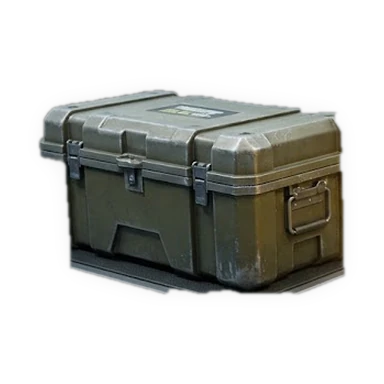
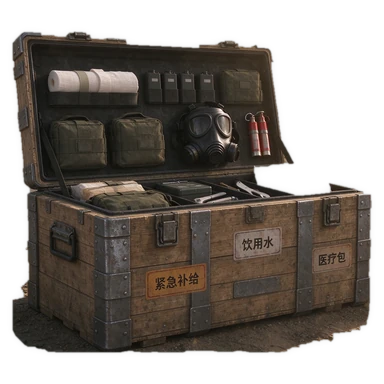
裝備名稱旁標示稀有度，更換裝備箱插圖
- 裝備名稱前加稀有度標籤（N／R／SR／SSR／UR／EX），顏色依稀有度：倉庫、圖鑑、角色裝備欄、裝備調整區、商店、詳情與強化／分解視窗
- 掉落訊息在名稱後標示稀有度
- 裝備補給箱、黃金裝備箱換成新插圖（已裁掉浮水印）

diff --git a/index.html b/index.html
@@ -236,6 +236,7 @@ b.sA{color:var(--sideA)} b.sB{color:var(--sideB)}
 .ucard.bossu{width:170px;border-color:#7a2a3a}
 .ucard.bossu.p2{border-color:var(--red);box-shadow:0 0 22px rgba(229,72,77,.7);animation:rage 1.2s infinite}
 @keyframes rage{50%{box-shadow:0 0 34px rgba(229,72,77,.95)}}
+.qtag{display:inline-block;font-size:10px;font-weight:800;line-height:15px;padding:0 5px;margin-right:4px;border-radius:5px;border:1px solid currentColor;vertical-align:middle;letter-spacing:.3px;background:rgba(0,0,0,.35)}
 .rN{color:#a3acb6}.rUR{color:#ff6b95;text-shadow:0 0 8px rgba(255,94,138,.6)}
 .gfx{font-size:11px;color:#7fe3ff}
 .req{font-size:11px;color:var(--dim)}.req.bad{color:var(--red);font-weight:700}
@@ -806,6 +807,8 @@ function gearStats(g){
 }
 function statStr(o){return Object.keys(ST_LBL).filter(k=>o[k]).map(k=>ST_PCT[k]?`${ST_LBL[k]}+${o[k]}%`:`${ST_LBL[k]}+${o[k]}`).join(" ");}
 function fxStr(g){return (g.fx||[]).map(f=>`✦${AFFIX[f.k].n}+${f.v}${AFFIX[f.k].pct?"%":""}`).join(" ");}
+// 稀有度標籤：N／R／SR／SSR／UR／EX，放在裝備名稱旁邊
+function qTag(q){return `<span class="qtag r${q}">${q}</span>`;}
 function gearName(g){return `${GEAR[g.base].icon}${GEAR[g.base].name}${g.lv?" +"+g.lv:""}`;}
 function gearCls(base){const c=GEAR[base].cls;return c?c.map(k=>CLASSES[k].icon+CLASSES[k].name).join("／"):"全職業";}
 
@@ -1316,7 +1319,7 @@ function showCard(id){
     <div>${clsTag(id)} <span class="dim small">${CLASSES[c.cls].desc}</span></div>${o?lvBar(id):""}
     <div class="small">❤ ${sv("hp",s.maxHp)}　⚔ ${sv("atk",s.atk)}　🛡 ${sv("def",s.def)}　💨 ${sv("spd",s.spd)}</div>
     ${o?`<div class="gslots">${Object.keys(SLOTS).map(sl=>{const g=gearById(o.eq&&o.eq[sl]);
-      return `<div class="gslot ${g?"has "+GEAR[g.base].q:""}" onclick="openSlot('${id}','${sl}')"><div class="gi">${g?gearImg(g.base):"＋"}</div>${g?`<b class="r${GEAR[g.base].q}">${GEAR[g.base].name}${g.lv?" +"+g.lv:""}</b>${lvOk(id,g.base)?"":`<div class="req bad">⚠ 需 Lv.${GEAR_REQ[GEAR[g.base].q]}，未生效</div>`}`:`<span class="dim">${SLOTS[sl]}</span>`}</div>`;}).join("")}</div>
+      return `<div class="gslot ${g?"has "+GEAR[g.base].q:""}" onclick="openSlot('${id}','${sl}')"><div class="gi">${g?gearImg(g.base):"＋"}</div>${g?`<b class="r${GEAR[g.base].q}">${qTag(GEAR[g.base].q)}${GEAR[g.base].name}${g.lv?" +"+g.lv:""}</b>${lvOk(id,g.base)?"":`<div class="req bad">⚠ 需 Lv.${GEAR_REQ[GEAR[g.base].q]}，未生效</div>`}`:`<span class="dim">${SLOTS[sl]}</span>`}</div>`;}).join("")}</div>
     ${setHtml(id)}${e.crit||e.steal||e.dodge?`<div class="gfx">裝備特效：${statStr({crit:e.crit,steal:e.steal,dodge:e.dodge})}</div>`:""}`:""}
     </div></div>
     ${skillHtml(c)}
@@ -1546,7 +1549,7 @@ function addGear(base,lv=0){
   const g={uid:++SAVE.gearUid,base,lv,roll:ri(lo,hi),fx};SAVE.gear.push(g);return g;
 }
 function rollGear(q){return pick(Object.keys(GEAR).filter(k=>GEAR[k].q===q));}
-function dropGear(q){return gearName(addGear(rollGear(q)));}
+function dropGear(q){return gearName(addGear(rollGear(q)))+`（${q}）`;}
 // 身上生效的裝備（等級不足的不算）
 // eq 是「欄位→裝備 uid」的對照；預覽時可以傳入假設的組合
 function wornOf(id,eq){return Object.values(eq||{}).map(gearById).filter(g=>g&&lvOk(id,g.base));}
@@ -1579,7 +1582,7 @@ function openSlot(id,sl){
   const list=SAVE.gear.filter(g=>GEAR[g.base].slot===sl&&g.uid!==cur).sort(gearSort);
   const ok=list.filter(g=>canWear(id,g.base)&&lvOk(id,g.base)),no=list.filter(g=>!canWear(id,g.base)),low=list.filter(g=>canWear(id,g.base)&&!lvOk(id,g.base));
   openModal(`<h3>${CARDS[id].name} 的${SLOTS[sl]} ${clsTag(id)}</h3>
-    ${cur?`<div class="row" style="margin-bottom:8px"><span>目前：<b>${gearName(gearById(cur))}</b> ${statStr(gearStats(gearById(cur)))}</span><button class="mini" style="margin-left:auto" onclick="takeOff('${id}','${sl}')">卸下</button></div>`:""}
+    ${cur?`<div class="row" style="margin-bottom:8px"><span>目前：<b>${qTag(GEAR[gearById(cur).base].q)}${gearName(gearById(cur))}</b> ${statStr(gearStats(gearById(cur)))}</span><button class="mini" style="margin-left:auto" onclick="takeOff('${id}','${sl}')">卸下</button></div>`:""}
     <div class="ggrid">${ok.map(g=>gearCard(g,`equipTo('${id}',${g.uid});showCard('${id}');render()`)).join("")||`<span class="dim">沒有可以穿的${SLOTS[sl]}。去「商店」買，或在遠征、競技場打倒敵人掉落。</span>`}</div>
     ${low.length?`<p class="small" style="color:var(--red)">等級不足（目前 Lv.${lvOf(id)}）：${low.map(g=>`${GEAR[g.base].name}（需 Lv.${GEAR_REQ[GEAR[g.base].q]}）`).join("、")}</p>`:""}
     ${no.length?`<p class="dim small">職業不符（${no.map(g=>GEAR[g.base].name).join("、")}）</p>`:""}
@@ -1590,7 +1593,7 @@ function gearSort(a,b){return GQ.indexOf(GEAR[b.base].q)-GQ.indexOf(GEAR[a.base]
 function gearCard(g,onclick){
   const G=GEAR[g.base],w=gearOwner(g.uid);
   return `<div class="gcard ${G.q}" onclick="${onclick}">${g.lv?`<span class="lv ${g.lv>=ENH_MAX?"max":g.lv>=7?"hi":""}">+${g.lv}</span>`:""}<div class="gi">${gearImg(g.base)}</div>
-    <div class="gn r${G.q}">${G.name}</div><div class="small">${statStr(gearStats(g))}</div>${g.fx&&g.fx.length?`<div class="gfx">${fxStr(g)}</div>`:""}
+    <div class="gn r${G.q}">${qTag(G.q)}${G.name}</div><div class="small">${statStr(gearStats(g))}</div>${g.fx&&g.fx.length?`<div class="gfx">${fxStr(g)}</div>`:""}
     <div class="small dim">${GQ_NAME[G.q]}・${SLOTS[G.slot]}・${gearCls(g.base)} ${reqTag(null,g.base)}</div>${w?`<div class="who">👤 ${CARDS[w].name}</div>`:""}</div>`;
 }
 
@@ -1634,7 +1637,7 @@ function viewDex(){
   <div class="filters"><button class="${DEX_Q?"":"on"}" onclick="DEX_Q='';render()">全部（${keys.length}）</button>${GQ.map(q=>`<button class="${DEX_Q===q?"on":""}" onclick="DEX_Q='${q}';render()">${q}（${keys.filter(k=>GEAR[k].q===q).length}）</button>`).join("")}</div>
   <div class="ggrid">${show.map(k=>{const G=GEAR[k],o=dexOwned(k);
     return `<div class="gcard ${G.q} ${o.n?"":"dexlock"}" onclick="openDex('${k}')">${o.n?`<span class="lv" style="color:var(--green)">×${o.n}</span>`:""}
-      <div class="gi">${gearImg(k)}</div><div class="gn r${G.q}">${G.name}</div><div class="small">${statStr(G.st)}</div>
+      <div class="gi">${gearImg(k)}</div><div class="gn r${G.q}">${qTag(G.q)}${G.name}</div><div class="small">${statStr(G.st)}</div>
       <div class="small dim">${GQ_NAME[G.q]}・${SLOTS[G.slot]}・${gearCls(k)} ${reqTag(null,k)}</div>${o.n?"":`<div class="small dim">未擁有</div>`}</div>`;}).join("")}</div>
   <h3 style="margin-top:18px">🧩 套裝效果</h3>
   <p class="dim small" style="margin-top:0">同稀有度的武器、防具、飾品穿 2 件、3 件有額外效果（3 件會同時拿到 2 件的效果）。</p>
@@ -1648,7 +1651,7 @@ function openDex(k){
   const aff=Object.entries(AFFIX).map(([a,A])=>`${A.n} +${Math.max(1,Math.round(A.r[0]*m))}～${Math.max(1,Math.round(A.r[1]*m))}${A.pct?"%":""}`).join("、");
   const boss=Object.keys(BOSS_DROP).find(b=>BOSS_DROP[b]===k);
   openModal(`<div class="detail"><div class="bigicon fx-${G.q}">${gearImg(k)}</div><div style="flex:1">
-    <div class="r${G.q}">${G.q}（${GQ_NAME[G.q]}）・${SLOTS[G.slot]}</div><h2 style="margin:2px 0">${G.name}</h2>
+    <div class="r${G.q}">${G.q}（${GQ_NAME[G.q]}）・${SLOTS[G.slot]}</div><h2 style="margin:2px 0">${qTag(G.q)}${G.name}</h2>
     <div class="small">${o.n?`倉庫裡有 <b>${o.n}</b> 件，最高 +${o.best}`:`<span class="dim">倉庫裡還沒有</span>`}</div>
     <div class="small dim">可裝備：${gearCls(k)}・穿戴等級 Lv.${GEAR_REQ[G.q]}</div></div></div>
     <div class="sk"><b>📊 數值</b><br>基礎：${statStr(G.st)}<br>品質浮動（${lo}%～${hi}%）：${rng}<br>強化到 +${ENH_MAX}：${max}（以 100% 品質計）</div>
@@ -1689,13 +1692,13 @@ function viewFit(){
         <div>${clsTag(id)} <span class="small dim">Lv.${lvOf(id)}</span></div></div></div>
     <div style="margin-top:10px"><b class="small">${nw?"裝上之後的素質":"目前素質"}</b>${nw?` <span class="small dim">（含套裝加成）</span>`:""}</div>
     ${fitStatHtml(cur,nw)}
-    ${nw?`<div class="fitpv"><b>預覽：${gearName(pick)}</b> <span class="small">${statStr(gearStats(pick))}${pick.fx&&pick.fx.length?" "+fxStr(pick):""}</span>
+    ${nw?`<div class="fitpv"><b>預覽：${qTag(GEAR[pick.base].q)}${gearName(pick)}</b> <span class="small">${statStr(gearStats(pick))}${pick.fx&&pick.fx.length?" "+fxStr(pick):""}</span>
       ${pickWho&&pickWho!==id?`<div class="small" style="color:var(--gold)">👤 目前 ${CARDS[pickWho].name} 穿著，穿上會從他身上拿走</div>`:""}
       <div class="row" style="margin-top:8px"><button class="pri" onclick="fitEquip()">✅ 穿上</button><button onclick="FIT_PICK=0;render()">取消</button></div></div>`:""}
   </div>
   <div class="gslots" style="margin-top:10px">${Object.keys(SLOTS).map(sl=>{const g=gearById(eq[sl]);
     return `<div class="gslot ${g?"has "+GEAR[g.base].q:""} ${FIT_SLOT===sl?"fitsel":""}" onclick="fitSlot('${sl}')"><div class="small dim">${SLOTS[sl]}</div>
-      <div class="gi">${g?gearImg(g.base):"＋"}</div>${g?`<b class="r${GEAR[g.base].q}">${GEAR[g.base].name}${g.lv?" +"+g.lv:""}</b>${lvOk(id,g.base)?"":`<div class="req bad">需 Lv.${GEAR_REQ[GEAR[g.base].q]}</div>`}`:`<span class="dim small">空</span>`}</div>`;}).join("")}</div>
+      <div class="gi">${g?gearImg(g.base):"＋"}</div>${g?`<b class="r${GEAR[g.base].q}">${qTag(GEAR[g.base].q)}${GEAR[g.base].name}${g.lv?" +"+g.lv:""}</b>${lvOk(id,g.base)?"":`<div class="req bad">需 Lv.${GEAR_REQ[GEAR[g.base].q]}</div>`}`:`<span class="dim small">空</span>`}</div>`;}).join("")}</div>
   ${setHtml(id)}
   ${eq[FIT_SLOT]?`<div class="row" style="margin-top:6px"><button class="mini" onclick="fitTakeOff('${FIT_SLOT}')">卸下目前的${SLOTS[FIT_SLOT]}</button></div>`:""}
   <h3 style="margin-top:14px">📦 倉庫・${SLOTS[FIT_SLOT]}（${list.length} 件）</h3>
@@ -1721,7 +1724,7 @@ function openGear(uid){
   const G=GEAR[g.base],w=gearOwner(uid),cands=Object.keys(SAVE.owned).filter(id=>canWear(id,g.base)&&lvOk(id,g.base)&&id!==w).sort((a,b)=>R_ORDER[CARDS[a].r]-R_ORDER[CARDS[b].r]);
   const sell=GEAR_SELL[G.q]+g.lv*4;
   openModal(`<div class="detail"><div class="bigicon fx-${G.q}">${gearImg(g.base)}</div><div style="flex:1">
-    <div class="r${G.q}">${G.q}（${GQ_NAME[G.q]}）・${SLOTS[G.slot]}</div><h2 style="margin:2px 0">${G.name}${g.lv?` <span style="color:var(--gold)">+${g.lv}</span>`:""}</h2>
+    <div class="r${G.q}">${G.q}（${GQ_NAME[G.q]}）・${SLOTS[G.slot]}</div><h2 style="margin:2px 0">${qTag(G.q)}${G.name}${g.lv?` <span style="color:var(--gold)">+${g.lv}</span>`:""}</h2>
     <div>${statStr(gearStats(g))}</div>
     <div class="small dim">品質 ${g.roll||100}%（同種裝備數值會浮動）</div>
     ${g.fx&&g.fx.length?`<div class="gfx">隨機詞條：${fxStr(g)}</div>`:`<div class="small dim">沒有隨機詞條</div>`}
@@ -1737,7 +1740,7 @@ function openGear(uid){
 }
 function confirmGearSell(uid){
   const g=gearById(uid),p=GEAR_SELL[GEAR[g.base].q]+g.lv*4;
-  openModal(`<h3>分解 ${gearName(g)}？</h3><p class="dim">裝備會消失，換得 🪙${p}。</p>
+  openModal(`<h3>分解 ${qTag(GEAR[g.base].q)}${gearName(g)}？</h3><p class="dim">裝備會消失，換得 🪙${p}。</p>
     <div class="row"><button class="pri" onclick="sellGear(${uid})">分解</button><button onclick="openGear(${uid})">取消</button></div>`);
 }
 function sellGear(uid){
@@ -1755,7 +1758,7 @@ function openEnhance(uid){
   const max=g.lv>=ENH_MAX,rate=max?0:Math.min(100,ENH_RATE[g.lv]+(ENH.luck?10:0)),cost=enhCost(g.lv);
   const risk=g.lv<4?"失敗：沒有損失":"失敗：掉 1 級";
   const nx={...g,lv:g.lv+1};
-  openModal(`<h3>🔨 強化 ${gearName(g)}</h3>
+  openModal(`<h3>🔨 強化 ${qTag(GEAR[g.base].q)}${gearName(g)}</h3>
     ${ENH.res?`<div class="enhres ${ENH.res.ok?"ok":"bad"}">${ENH.res.msg}</div>`:""}
     ${max?`<p>已經強化到 +${ENH_MAX}，無法再強化。</p>`:`
     <div>${statStr(gearStats(g))} <b>→</b> <span style="color:var(--green)">${statStr(gearStats(nx))}</span></div>
@@ -1807,7 +1810,7 @@ function viewShop(){
     body=`<h3>裝備箱</h3><div class="shopsec">${Object.entries(BOXES).map(([k,b])=>`<div class="sitem"><div class="gi">${boxImg(k,"box")}</div><b>${b.name}</b><div class="small dim">${b.desc}</div>
         <button class="gold" onclick="buyBox('${k}')" ${SAVE.gold<b.price?"disabled":""}>🪙${b.price}</button></div>`).join("")}</div>
       <h3>直接購買</h3><div class="shopsec">${Object.keys(GEAR).filter(k=>GEAR_PRICE[GEAR[k].q]).map(k=>{const G=GEAR[k];
-        return `<div class="sitem" style="border-color:${G.q==="SR"?"var(--purple)":G.q==="R"?"#2c5a86":"#4a525c"}"><div class="gi">${gearImg(k)}</div><b class="r${G.q}">${G.name}</b>
+        return `<div class="sitem" style="border-color:${G.q==="SR"?"var(--purple)":G.q==="R"?"#2c5a86":"#4a525c"}"><div class="gi">${gearImg(k)}</div><b class="r${G.q}">${qTag(G.q)}${G.name}</b>
         <div class="small">${statStr(G.st)} <span class="dim">（±浮動）</span></div><div class="small dim">${GQ_NAME[G.q]}・${SLOTS[G.slot]}・${gearCls(k)} ${reqTag(null,k)}</div>
         <button onclick="buyGear('${k}')" ${SAVE.gold<GEAR_PRICE[G.q]?"disabled":""}>🪙${GEAR_PRICE[G.q]}</button></div>`;}).join("")}</div>
       <p class="dim small">SSR（史詩）只能從裝備箱、主線魔王或深淵守門者取得；UR（傳說）只能從黃金裝備箱、第 5～6 章魔王或深淵 D20 以下的守門者取得。</p>
@@ -1833,7 +1836,7 @@ function pay(n){if(SAVE.gold<n){toast("金條不足");return false;}SAVE.gold-=n
 function buyGear(k){
   if(!pay(GEAR_PRICE[GEAR[k].q]))return;
   const g=addGear(k);save();SFX.click();render();
-  openModal(`<h3>🛒 購買成功</h3><p>獲得 <b class="r${GEAR[k].q}">${gearName(g)}</b>（品質 ${g.roll}%：${statStr(gearStats(g))}${g.fx.length?" "+fxStr(g):""}）。</p>
+  openModal(`<h3>🛒 購買成功</h3><p>獲得 <b class="r${GEAR[k].q}">${qTag(GEAR[k].q)}${gearName(g)}</b>（品質 ${g.roll}%：${statStr(gearStats(g))}${g.fx.length?" "+fxStr(g):""}）。</p>
     <div class="row"><button class="pri" onclick="openGear(${g.uid})">查看／裝備</button><button onclick="closeModal()">關閉</button></div>`);
 }
 function buyBox(k){
